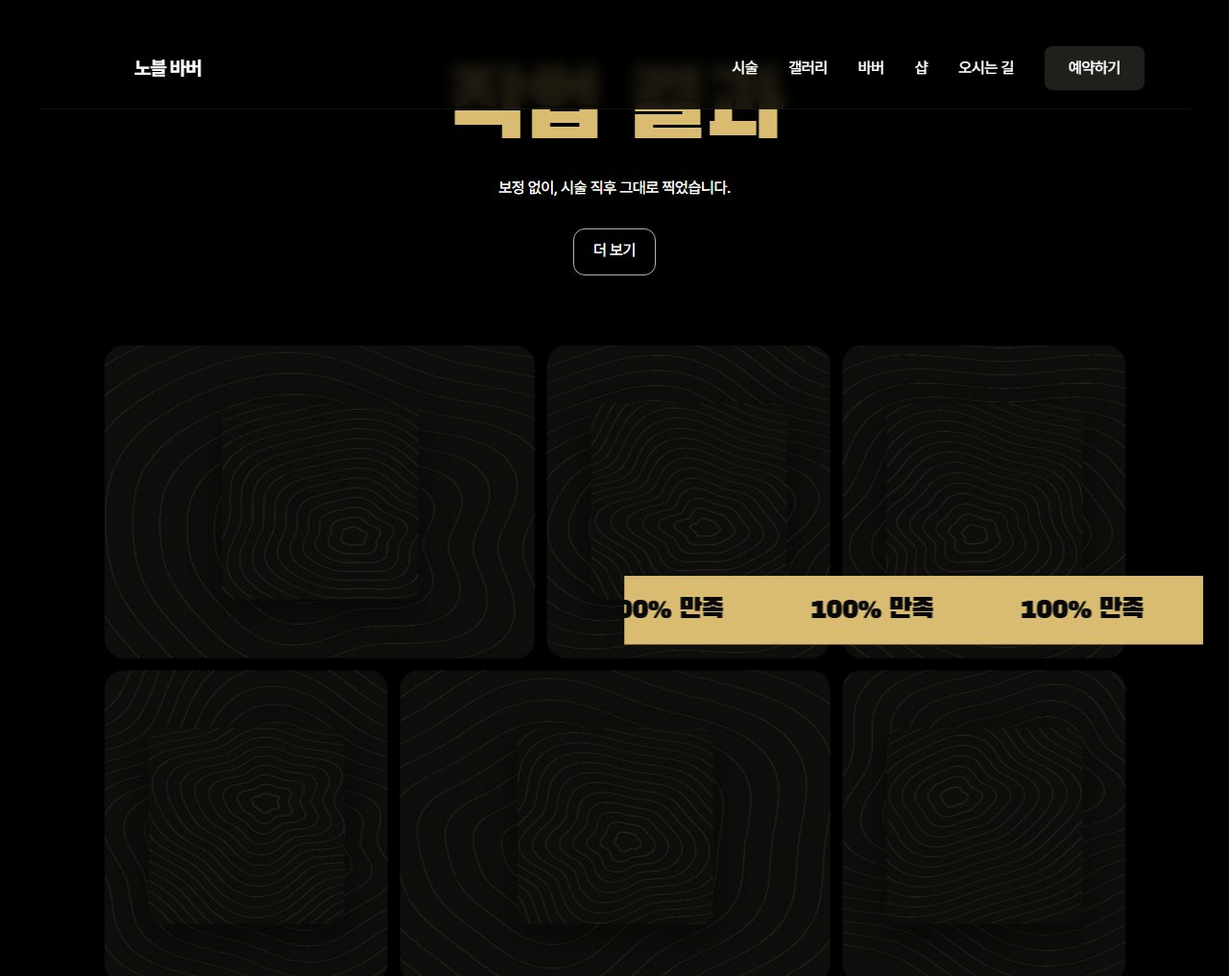
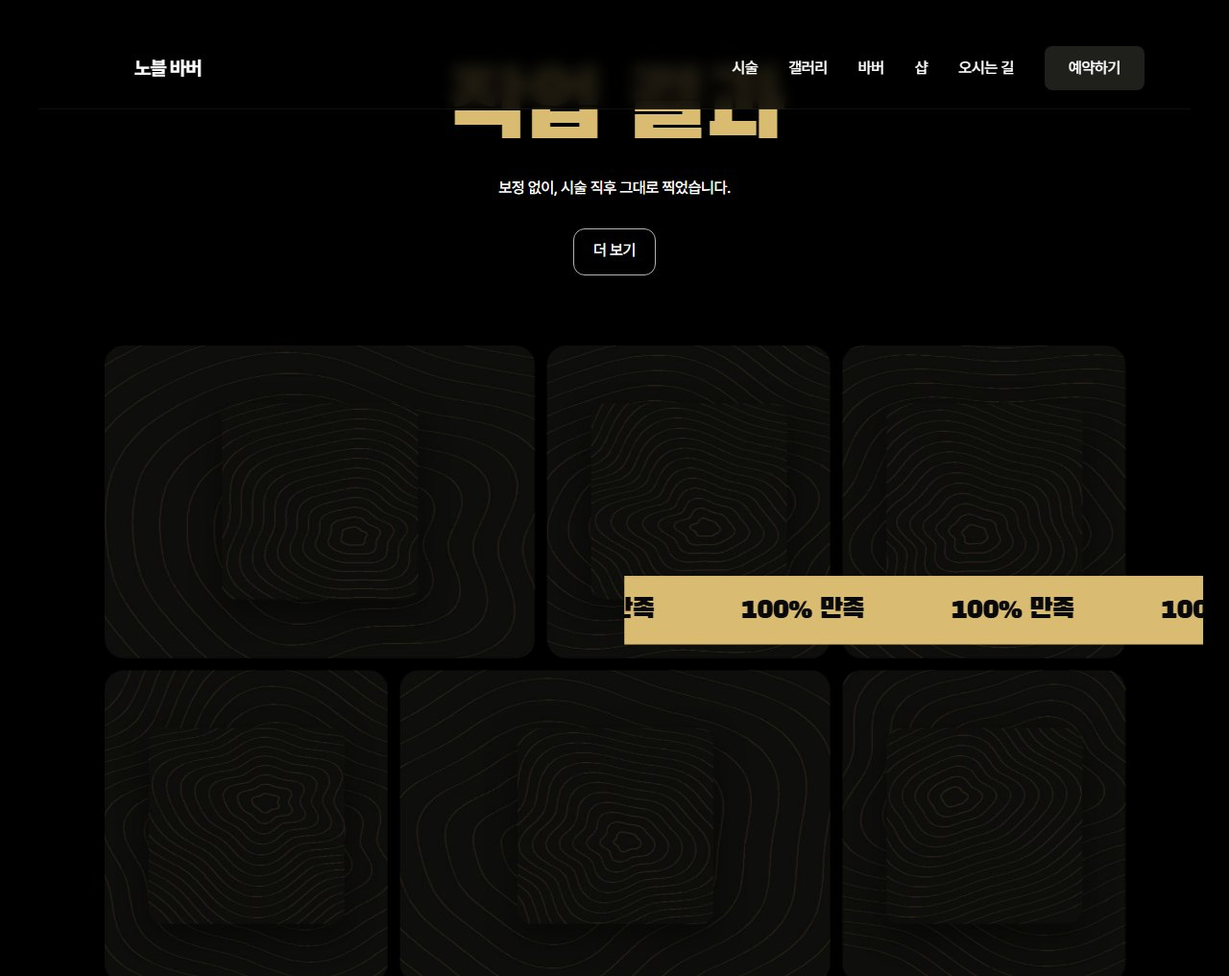
beauty-g 마퀴 트랙 폭 max-content + 실측 속도(77/22/108/50 px/s)로 duration 고정

Changed region(s): [[0.5, 0.6096, 1.0, 0.6401]]

diff --git a/public/templates/beauty-g-basic/index.html b/public/templates/beauty-g-basic/index.html
@@ -89,7 +89,7 @@ nav a:hover{color:var(--gold)}
 
 /* 티커 실측: 1200×200 · 아이콘 108 (x160) · 텍스트 200/180 #1F1F1C (x294) · 피치 = 아이콘108+26+텍스트+30 */
 .tk{overflow:hidden;height:200px;display:flex;align-items:center;margin-top:65px}
-.tk .track{display:flex;align-items:center;white-space:nowrap;animation:tk 40s linear infinite;will-change:transform}  /* 실측 77px/s */
+.tk .track{display:flex;align-items:center;white-space:nowrap;width:max-content;animation:tk 40s linear infinite;will-change:transform}  /* 실측 77px/s · 트랙은 max-content 여야 -50% 가 콘텐츠 절반 */
 .tk .item{display:flex;align-items:center;gap:26px;padding:0 30px 0 40px;font-size:200px;line-height:180px;color:var(--ghost)}
 .tk .item svg{width:108px;height:108px;flex:none;stroke:var(--ghost);fill:none;stroke-width:1.6;stroke-linecap:round;stroke-linejoin:round}
 @keyframes tk{to{transform:translateX(-50%)}}
@@ -120,7 +120,7 @@ section{padding-top:70px}
 .svc .c3 .ph{left:19px;top:181px;transform:rotate(-4deg)}
 /* 카드2: 128×134 r8 썸네일 4장 × 3줄, 줄마다 -8° 기울고 흐른다 */
 .svc .rows{position:absolute;left:0;top:150px;width:140%;margin-left:-20%}
-.svc .row{display:flex;gap:8px;transform:rotate(-8deg);margin-bottom:-6px;animation:tk 22s linear infinite}  /* 실측 50px/s */
+.svc .row{display:flex;gap:8px;width:max-content;transform:rotate(-8deg);margin-bottom:-6px;animation:tk 22s linear infinite}  /* 실측 50px/s */
 .svc .row:nth-child(2){animation-direction:reverse}
 .svc .row img{width:128px;height:134px;border-radius:8px;object-fit:cover;flex:none}
 
@@ -133,7 +133,7 @@ section{padding-top:70px}
 .gal figure:hover>img{transform:scale(1.06)}
 .gal .ins{position:absolute;left:50%;top:59px;width:200px;height:200px;margin-left:-100px;border-radius:14px;object-fit:cover;box-shadow:0 12px 30px rgba(0,0,0,.45)}
 .band{position:absolute;right:-80px;top:235px;width:590px;height:70px;background:var(--gold);color:#09090B;overflow:hidden;display:flex;align-items:center;z-index:2}
-.band .track{display:flex;white-space:nowrap;animation:tk 80s linear infinite}  /* 실측 22px/s */
+.band .track{display:flex;white-space:nowrap;width:max-content;animation:tk 80s linear infinite}  /* 실측 22px/s */
 .band span{font-size:28px;line-height:34px;letter-spacing:-.02em;padding:0 44px}
 
 /* 바버 실측: 420×540 흑백 컷아웃 · 피치 496(gap 76) · 첫 장 x-24 · 흰 카드 300 r16 (초상 x+104) */
@@ -335,7 +335,7 @@ footer{margin-top:120px}
 </div></section>
 
 <!-- 티커: 고스트 텍스트 마퀴 -->
-<div class="tk rv"><div class="wrap"><div class="track" aria-hidden="true">
+<div class="tk rv"><div class="wrap"><div class="track" style="animation-duration:17.8s" aria-hidden="true">
   <div class="item disp"><svg viewBox="0 0 24 24"><circle cx="6" cy="6" r="3"/><circle cx="6" cy="18" r="3"/><path d="M20 4 8.5 15.5M20 20 8.5 8.5"/></svg>바버샵</div><div class="item disp"><svg viewBox="0 0 24 24"><circle cx="6" cy="6" r="3"/><circle cx="6" cy="18" r="3"/><path d="M20 4 8.5 15.5M20 20 8.5 8.5"/></svg>바버샵</div><div class="item disp"><svg viewBox="0 0 24 24"><circle cx="6" cy="6" r="3"/><circle cx="6" cy="18" r="3"/><path d="M20 4 8.5 15.5M20 20 8.5 8.5"/></svg>바버샵</div><div class="item disp"><svg viewBox="0 0 24 24"><circle cx="6" cy="6" r="3"/><circle cx="6" cy="18" r="3"/><path d="M20 4 8.5 15.5M20 20 8.5 8.5"/></svg>바버샵</div>
 </div></div></div>
 
@@ -347,16 +347,16 @@ footer{margin-top:120px}
       <img class="ph" src="../beauty-g/assets/service-1.jpg" alt="" width="592" height="484"><img class="ph2" src="../beauty-g/assets/service-1b.jpg" alt="" width="574" height="416"></div>
     <div class="c c2 rv x"><h3 class="disp">면도 & 수염<span>02</span></h3><p class="d">따뜻한 타월과 스트레이트 면도기로 정리하는 클래식 셰이브.</p>
       <div class="rows" aria-hidden="true">
-        <div class="row"><img src="../beauty-g/assets/service-2-1.jpg" alt=""><img src="../beauty-g/assets/service-2-2.jpg" alt=""><img src="../beauty-g/assets/service-2-3.jpg" alt=""><img src="../beauty-g/assets/service-2-4.jpg" alt=""><img src="../beauty-g/assets/service-2-1.jpg" alt=""><img src="../beauty-g/assets/service-2-2.jpg" alt=""><img src="../beauty-g/assets/service-2-3.jpg" alt=""><img src="../beauty-g/assets/service-2-4.jpg" alt=""></div>
-        <div class="row"><img src="../beauty-g/assets/service-2-3.jpg" alt=""><img src="../beauty-g/assets/service-2-4.jpg" alt=""><img src="../beauty-g/assets/service-2-1.jpg" alt=""><img src="../beauty-g/assets/service-2-2.jpg" alt=""><img src="../beauty-g/assets/service-2-3.jpg" alt=""><img src="../beauty-g/assets/service-2-4.jpg" alt=""><img src="../beauty-g/assets/service-2-1.jpg" alt=""><img src="../beauty-g/assets/service-2-2.jpg" alt=""></div>
-        <div class="row"><img src="../beauty-g/assets/service-2-2.jpg" alt=""><img src="../beauty-g/assets/service-2-3.jpg" alt=""><img src="../beauty-g/assets/service-2-4.jpg" alt=""><img src="../beauty-g/assets/service-2-1.jpg" alt=""><img src="../beauty-g/assets/service-2-2.jpg" alt=""><img src="../beauty-g/assets/service-2-3.jpg" alt=""><img src="../beauty-g/assets/service-2-4.jpg" alt=""><img src="../beauty-g/assets/service-2-1.jpg" alt=""></div>
+        <div class="row" style="animation-duration:10.8s"><img src="../beauty-g/assets/service-2-1.jpg" alt=""><img src="../beauty-g/assets/service-2-2.jpg" alt=""><img src="../beauty-g/assets/service-2-3.jpg" alt=""><img src="../beauty-g/assets/service-2-4.jpg" alt=""><img src="../beauty-g/assets/service-2-1.jpg" alt=""><img src="../beauty-g/assets/service-2-2.jpg" alt=""><img src="../beauty-g/assets/service-2-3.jpg" alt=""><img src="../beauty-g/assets/service-2-4.jpg" alt=""></div>
+        <div class="row" style="animation-duration:10.8s"><img src="../beauty-g/assets/service-2-3.jpg" alt=""><img src="../beauty-g/assets/service-2-4.jpg" alt=""><img src="../beauty-g/assets/service-2-1.jpg" alt=""><img src="../beauty-g/assets/service-2-2.jpg" alt=""><img src="../beauty-g/assets/service-2-3.jpg" alt=""><img src="../beauty-g/assets/service-2-4.jpg" alt=""><img src="../beauty-g/assets/service-2-1.jpg" alt=""><img src="../beauty-g/assets/service-2-2.jpg" alt=""></div>
+        <div class="row" style="animation-duration:10.8s"><img src="../beauty-g/assets/service-2-2.jpg" alt=""><img src="../beauty-g/assets/service-2-3.jpg" alt=""><img src="../beauty-g/assets/service-2-4.jpg" alt=""><img src="../beauty-g/assets/service-2-1.jpg" alt=""><img src="../beauty-g/assets/service-2-2.jpg" alt=""><img src="../beauty-g/assets/service-2-3.jpg" alt=""><img src="../beauty-g/assets/service-2-4.jpg" alt=""><img src="../beauty-g/assets/service-2-1.jpg" alt=""></div>
       </div></div>
     <div class="c c3 rv x"><h3 class="disp">라인업 & 페이드<span>03</span></h3><p class="d">선명한 라인과 부드러운 페이드로 완성하는 마무리.</p>
       <img class="ph" src="../beauty-g/assets/service-3.jpg" alt="" width="592" height="484"></div>
   </div>
 </div></section>
 
-<div class="tk rv"><div class="wrap"><div class="track" aria-hidden="true">
+<div class="tk rv"><div class="wrap"><div class="track" style="animation-duration:17.8s" aria-hidden="true">
   <div class="item disp"><svg viewBox="0 0 24 24"><path d="M3 8a2 2 0 0 1 2-2h2l2-3h6l2 3h2a2 2 0 0 1 2 2v11a2 2 0 0 1-2 2H5a2 2 0 0 1-2-2z"/><circle cx="12" cy="13" r="4"/></svg>갤러리</div><div class="item disp"><svg viewBox="0 0 24 24"><path d="M3 8a2 2 0 0 1 2-2h2l2-3h6l2 3h2a2 2 0 0 1 2 2v11a2 2 0 0 1-2 2H5a2 2 0 0 1-2-2z"/><circle cx="12" cy="13" r="4"/></svg>갤러리</div><div class="item disp"><svg viewBox="0 0 24 24"><path d="M3 8a2 2 0 0 1 2-2h2l2-3h6l2 3h2a2 2 0 0 1 2 2v11a2 2 0 0 1-2 2H5a2 2 0 0 1-2-2z"/><circle cx="12" cy="13" r="4"/></svg>갤러리</div><div class="item disp"><svg viewBox="0 0 24 24"><path d="M3 8a2 2 0 0 1 2-2h2l2-3h6l2 3h2a2 2 0 0 1 2 2v11a2 2 0 0 1-2 2H5a2 2 0 0 1-2-2z"/><circle cx="12" cy="13" r="4"/></svg>갤러리</div>
 </div></div></div>
 
@@ -374,11 +374,11 @@ footer{margin-top:120px}
       <figure class="w"><img src="../beauty-g/assets/gallery-5.jpg" alt="" width="878" height="638"><img class="ins" src="../beauty-g/assets/gallery-5s.jpg" alt="" width="400" height="400"></figure>
       <figure class="n"><img src="../beauty-g/assets/gallery-6.jpg" alt="" width="578" height="638"><img class="ins" src="../beauty-g/assets/gallery-6s.jpg" alt="" width="400" height="400"></figure>
     </div>
-    <div class="band" aria-hidden="true"><div class="track"><span class="disp">100% 만족</span><span class="disp">100% 만족</span><span class="disp">100% 만족</span><span class="disp">100% 만족</span><span class="disp">100% 만족</span><span class="disp">100% 만족</span><span class="disp">100% 만족</span><span class="disp">100% 만족</span></div></div>
+    <div class="band" aria-hidden="true"><div class="track" style="animation-duration:38.9s"><span class="disp">100% 만족</span><span class="disp">100% 만족</span><span class="disp">100% 만족</span><span class="disp">100% 만족</span><span class="disp">100% 만족</span><span class="disp">100% 만족</span><span class="disp">100% 만족</span><span class="disp">100% 만족</span></div></div>
   </div>
 </div></section>
 
-<div class="tk rv"><div class="wrap"><div class="track" aria-hidden="true">
+<div class="tk rv"><div class="wrap"><div class="track" style="animation-duration:20.4s" aria-hidden="true">
   <div class="item disp"><svg viewBox="0 0 24 24"><circle cx="9" cy="7" r="4"/><path d="M3 21v-2a4 4 0 0 1 4-4h4M16 19l2 2 4-4"/></svg>바버</div><div class="item disp"><svg viewBox="0 0 24 24"><circle cx="9" cy="7" r="4"/><path d="M3 21v-2a4 4 0 0 1 4-4h4M16 19l2 2 4-4"/></svg>바버</div><div class="item disp"><svg viewBox="0 0 24 24"><circle cx="9" cy="7" r="4"/><path d="M3 21v-2a4 4 0 0 1 4-4h4M16 19l2 2 4-4"/></svg>바버</div><div class="item disp"><svg viewBox="0 0 24 24"><circle cx="9" cy="7" r="4"/><path d="M3 21v-2a4 4 0 0 1 4-4h4M16 19l2 2 4-4"/></svg>바버</div><div class="item disp"><svg viewBox="0 0 24 24"><circle cx="9" cy="7" r="4"/><path d="M3 21v-2a4 4 0 0 1 4-4h4M16 19l2 2 4-4"/></svg>바버</div><div class="item disp"><svg viewBox="0 0 24 24"><circle cx="9" cy="7" r="4"/><path d="M3 21v-2a4 4 0 0 1 4-4h4M16 19l2 2 4-4"/></svg>바버</div>
 </div></div></div>
 
@@ -392,7 +392,7 @@ footer{margin-top:120px}
   </div></div>
 </div></section>
 
-<div class="tk rv"><div class="wrap"><div class="track" aria-hidden="true">
+<div class="tk rv"><div class="wrap"><div class="track" style="animation-duration:20.6s" aria-hidden="true">
   <div class="item disp"><svg viewBox="0 0 24 24"><path d="M12 21s-7-4.5-9.5-9A5.5 5.5 0 0 1 12 6a5.5 5.5 0 0 1 9.5 6c-2.5 4.5-9.5 9-9.5 9z"/></svg>고객</div><div class="item disp"><svg viewBox="0 0 24 24"><path d="M12 21s-7-4.5-9.5-9A5.5 5.5 0 0 1 12 6a5.5 5.5 0 0 1 9.5 6c-2.5 4.5-9.5 9-9.5 9z"/></svg>고객</div><div class="item disp"><svg viewBox="0 0 24 24"><path d="M12 21s-7-4.5-9.5-9A5.5 5.5 0 0 1 12 6a5.5 5.5 0 0 1 9.5 6c-2.5 4.5-9.5 9-9.5 9z"/></svg>고객</div><div class="item disp"><svg viewBox="0 0 24 24"><path d="M12 21s-7-4.5-9.5-9A5.5 5.5 0 0 1 12 6a5.5 5.5 0 0 1 9.5 6c-2.5 4.5-9.5 9-9.5 9z"/></svg>고객</div><div class="item disp"><svg viewBox="0 0 24 24"><path d="M12 21s-7-4.5-9.5-9A5.5 5.5 0 0 1 12 6a5.5 5.5 0 0 1 9.5 6c-2.5 4.5-9.5 9-9.5 9z"/></svg>고객</div><div class="item disp"><svg viewBox="0 0 24 24"><path d="M12 21s-7-4.5-9.5-9A5.5 5.5 0 0 1 12 6a5.5 5.5 0 0 1 9.5 6c-2.5 4.5-9.5 9-9.5 9z"/></svg>고객</div>
 </div></div></div>
 
@@ -412,7 +412,7 @@ footer{margin-top:120px}
   </div>
 </div></section>
 
-<div class="tk rv"><div class="wrap"><div class="track" aria-hidden="true">
+<div class="tk rv"><div class="wrap"><div class="track" style="animation-duration:20.5s" aria-hidden="true">
   <div class="item disp"><svg viewBox="0 0 24 24"><path d="m12 3 2.8 5.7 6.2.9-4.5 4.4 1.1 6.2L12 17.3 6.4 20.2l1.1-6.2L3 9.6l6.2-.9z"/></svg>가격</div><div class="item disp"><svg viewBox="0 0 24 24"><path d="m12 3 2.8 5.7 6.2.9-4.5 4.4 1.1 6.2L12 17.3 6.4 20.2l1.1-6.2L3 9.6l6.2-.9z"/></svg>가격</div><div class="item disp"><svg viewBox="0 0 24 24"><path d="m12 3 2.8 5.7 6.2.9-4.5 4.4 1.1 6.2L12 17.3 6.4 20.2l1.1-6.2L3 9.6l6.2-.9z"/></svg>가격</div><div class="item disp"><svg viewBox="0 0 24 24"><path d="m12 3 2.8 5.7 6.2.9-4.5 4.4 1.1 6.2L12 17.3 6.4 20.2l1.1-6.2L3 9.6l6.2-.9z"/></svg>가격</div><div class="item disp"><svg viewBox="0 0 24 24"><path d="m12 3 2.8 5.7 6.2.9-4.5 4.4 1.1 6.2L12 17.3 6.4 20.2l1.1-6.2L3 9.6l6.2-.9z"/></svg>가격</div><div class="item disp"><svg viewBox="0 0 24 24"><path d="m12 3 2.8 5.7 6.2.9-4.5 4.4 1.1 6.2L12 17.3 6.4 20.2l1.1-6.2L3 9.6l6.2-.9z"/></svg>가격</div>
 </div></div></div>
 
@@ -443,7 +443,7 @@ footer{margin-top:120px}
   </div>
 </div></section>
 
-<div class="tk rv"><div class="wrap"><div class="track" aria-hidden="true">
+<div class="tk rv"><div class="wrap"><div class="track" style="animation-duration:26.3s" aria-hidden="true">
   <div class="item disp"><svg viewBox="0 0 24 24"><path d="M3 9 5 4h14l2 5M3 9v11h18V9M3 9a3 3 0 0 0 6 0 3 3 0 0 0 6 0 3 3 0 0 0 6 0M10 20v-6h4v6"/></svg>인스타그램</div><div class="item disp"><svg viewBox="0 0 24 24"><path d="M3 9 5 4h14l2 5M3 9v11h18V9M3 9a3 3 0 0 0 6 0 3 3 0 0 0 6 0 3 3 0 0 0 6 0M10 20v-6h4v6"/></svg>인스타그램</div><div class="item disp"><svg viewBox="0 0 24 24"><path d="M3 9 5 4h14l2 5M3 9v11h18V9M3 9a3 3 0 0 0 6 0 3 3 0 0 0 6 0 3 3 0 0 0 6 0M10 20v-6h4v6"/></svg>인스타그램</div><div class="item disp"><svg viewBox="0 0 24 24"><path d="M3 9 5 4h14l2 5M3 9v11h18V9M3 9a3 3 0 0 0 6 0 3 3 0 0 0 6 0 3 3 0 0 0 6 0M10 20v-6h4v6"/></svg>인스타그램</div>
 </div></div></div>
 
@@ -464,7 +464,7 @@ footer{margin-top:120px}
   </div></div>
 </div></section>
 
-<div class="tk rv"><div class="wrap"><div class="track" aria-hidden="true">
+<div class="tk rv"><div class="wrap"><div class="track" style="animation-duration:19.0s" aria-hidden="true">
   <div class="item disp"><svg viewBox="0 0 24 24"><path d="M2 3h3l2.4 12.2a2 2 0 0 0 2 1.6h8.8a2 2 0 0 0 2-1.6L22 7H6"/><circle cx="9" cy="21" r="1.2"/><circle cx="18" cy="21" r="1.2"/></svg>샵</div><div class="item disp"><svg viewBox="0 0 24 24"><path d="M2 3h3l2.4 12.2a2 2 0 0 0 2 1.6h8.8a2 2 0 0 0 2-1.6L22 7H6"/><circle cx="9" cy="21" r="1.2"/><circle cx="18" cy="21" r="1.2"/></svg>샵</div><div class="item disp"><svg viewBox="0 0 24 24"><path d="M2 3h3l2.4 12.2a2 2 0 0 0 2 1.6h8.8a2 2 0 0 0 2-1.6L22 7H6"/><circle cx="9" cy="21" r="1.2"/><circle cx="18" cy="21" r="1.2"/></svg>샵</div><div class="item disp"><svg viewBox="0 0 24 24"><path d="M2 3h3l2.4 12.2a2 2 0 0 0 2 1.6h8.8a2 2 0 0 0 2-1.6L22 7H6"/><circle cx="9" cy="21" r="1.2"/><circle cx="18" cy="21" r="1.2"/></svg>샵</div><div class="item disp"><svg viewBox="0 0 24 24"><path d="M2 3h3l2.4 12.2a2 2 0 0 0 2 1.6h8.8a2 2 0 0 0 2-1.6L22 7H6"/><circle cx="9" cy="21" r="1.2"/><circle cx="18" cy="21" r="1.2"/></svg>샵</div><div class="item disp"><svg viewBox="0 0 24 24"><path d="M2 3h3l2.4 12.2a2 2 0 0 0 2 1.6h8.8a2 2 0 0 0 2-1.6L22 7H6"/><circle cx="9" cy="21" r="1.2"/><circle cx="18" cy="21" r="1.2"/></svg>샵</div><div class="item disp"><svg viewBox="0 0 24 24"><path d="M2 3h3l2.4 12.2a2 2 0 0 0 2 1.6h8.8a2 2 0 0 0 2-1.6L22 7H6"/><circle cx="9" cy="21" r="1.2"/><circle cx="18" cy="21" r="1.2"/></svg>샵</div><div class="item disp"><svg viewBox="0 0 24 24"><path d="M2 3h3l2.4 12.2a2 2 0 0 0 2 1.6h8.8a2 2 0 0 0 2-1.6L22 7H6"/><circle cx="9" cy="21" r="1.2"/><circle cx="18" cy="21" r="1.2"/></svg>샵</div>
 </div></div></div>
 
@@ -477,7 +477,7 @@ footer{margin-top:120px}
   </div>
 </div></section>
 
-<div class="tk rv"><div class="wrap"><div class="track" aria-hidden="true">
+<div class="tk rv"><div class="wrap"><div class="track" style="animation-duration:20.4s" aria-hidden="true">
   <div class="item disp"><svg viewBox="0 0 24 24"><path d="M15 4h5v5M20 4l-6 6M5 3h3l2 5-2.5 1.5a11 11 0 0 0 6 6L15 13l5 2v3a2 2 0 0 1-2 2A16 16 0 0 1 3 5a2 2 0 0 1 2-2z"/></svg>문의</div><div class="item disp"><svg viewBox="0 0 24 24"><path d="M15 4h5v5M20 4l-6 6M5 3h3l2 5-2.5 1.5a11 11 0 0 0 6 6L15 13l5 2v3a2 2 0 0 1-2 2A16 16 0 0 1 3 5a2 2 0 0 1 2-2z"/></svg>문의</div><div class="item disp"><svg viewBox="0 0 24 24"><path d="M15 4h5v5M20 4l-6 6M5 3h3l2 5-2.5 1.5a11 11 0 0 0 6 6L15 13l5 2v3a2 2 0 0 1-2 2A16 16 0 0 1 3 5a2 2 0 0 1 2-2z"/></svg>문의</div><div class="item disp"><svg viewBox="0 0 24 24"><path d="M15 4h5v5M20 4l-6 6M5 3h3l2 5-2.5 1.5a11 11 0 0 0 6 6L15 13l5 2v3a2 2 0 0 1-2 2A16 16 0 0 1 3 5a2 2 0 0 1 2-2z"/></svg>문의</div><div class="item disp"><svg viewBox="0 0 24 24"><path d="M15 4h5v5M20 4l-6 6M5 3h3l2 5-2.5 1.5a11 11 0 0 0 6 6L15 13l5 2v3a2 2 0 0 1-2 2A16 16 0 0 1 3 5a2 2 0 0 1 2-2z"/></svg>문의</div><div class="item disp"><svg viewBox="0 0 24 24"><path d="M15 4h5v5M20 4l-6 6M5 3h3l2 5-2.5 1.5a11 11 0 0 0 6 6L15 13l5 2v3a2 2 0 0 1-2 2A16 16 0 0 1 3 5a2 2 0 0 1 2-2z"/></svg>문의</div>
 </div></div></div>
 

diff --git a/public/templates/beauty-g/index.html b/public/templates/beauty-g/index.html
@@ -89,7 +89,7 @@ nav a:hover{color:var(--gold)}
 
 /* 티커 실측: 1200×200 · 아이콘 108 (x160) · 텍스트 200/180 #1F1F1C (x294) · 피치 = 아이콘108+26+텍스트+30 */
 .tk{overflow:hidden;height:200px;display:flex;align-items:center;margin-top:65px}
-.tk .track{display:flex;align-items:center;white-space:nowrap;animation:tk 40s linear infinite;will-change:transform}  /* 실측 77px/s */
+.tk .track{display:flex;align-items:center;white-space:nowrap;width:max-content;animation:tk 40s linear infinite;will-change:transform}  /* 실측 77px/s · 트랙은 max-content 여야 -50% 가 콘텐츠 절반 */
 .tk .item{display:flex;align-items:center;gap:26px;padding:0 30px 0 40px;font-size:200px;line-height:180px;color:var(--ghost)}
 .tk .item svg{width:108px;height:108px;flex:none;stroke:var(--ghost);fill:none;stroke-width:1.6;stroke-linecap:round;stroke-linejoin:round}
 @keyframes tk{to{transform:translateX(-50%)}}
@@ -120,7 +120,7 @@ section{padding-top:70px}
 .svc .c3 .ph{left:19px;top:181px;transform:rotate(-4deg)}
 /* 카드2: 128×134 r8 썸네일 4장 × 3줄, 줄마다 -8° 기울고 흐른다 */
 .svc .rows{position:absolute;left:0;top:150px;width:140%;margin-left:-20%}
-.svc .row{display:flex;gap:8px;transform:rotate(-8deg);margin-bottom:-6px;animation:tk 22s linear infinite}  /* 실측 50px/s */
+.svc .row{display:flex;gap:8px;width:max-content;transform:rotate(-8deg);margin-bottom:-6px;animation:tk 22s linear infinite}  /* 실측 50px/s */
 .svc .row:nth-child(2){animation-direction:reverse}
 .svc .row img{width:128px;height:134px;border-radius:8px;object-fit:cover;flex:none}
 
@@ -133,7 +133,7 @@ section{padding-top:70px}
 .gal figure:hover>img{transform:scale(1.06)}
 .gal .ins{position:absolute;left:50%;top:59px;width:200px;height:200px;margin-left:-100px;border-radius:14px;object-fit:cover;box-shadow:0 12px 30px rgba(0,0,0,.45)}
 .band{position:absolute;right:-80px;top:235px;width:590px;height:70px;background:var(--gold);color:#09090B;overflow:hidden;display:flex;align-items:center;z-index:2}
-.band .track{display:flex;white-space:nowrap;animation:tk 80s linear infinite}  /* 실측 22px/s */
+.band .track{display:flex;white-space:nowrap;width:max-content;animation:tk 80s linear infinite}  /* 실측 22px/s */
 .band span{font-size:28px;line-height:34px;letter-spacing:-.02em;padding:0 44px}
 
 /* 바버 실측: 420×540 흑백 컷아웃 · 피치 496(gap 76) · 첫 장 x-24 · 흰 카드 300 r16 (초상 x+104) */
@@ -331,7 +331,7 @@ footer{margin-top:120px}
 </div></section>
 
 <!-- 티커: 고스트 텍스트 마퀴 -->
-<div class="tk rv"><div class="wrap"><div class="track" aria-hidden="true">
+<div class="tk rv"><div class="wrap"><div class="track" style="animation-duration:17.8s" aria-hidden="true">
   <div class="item disp"><svg viewBox="0 0 24 24"><circle cx="6" cy="6" r="3"/><circle cx="6" cy="18" r="3"/><path d="M20 4 8.5 15.5M20 20 8.5 8.5"/></svg>바버샵</div><div class="item disp"><svg viewBox="0 0 24 24"><circle cx="6" cy="6" r="3"/><circle cx="6" cy="18" r="3"/><path d="M20 4 8.5 15.5M20 20 8.5 8.5"/></svg>바버샵</div><div class="item disp"><svg viewBox="0 0 24 24"><circle cx="6" cy="6" r="3"/><circle cx="6" cy="18" r="3"/><path d="M20 4 8.5 15.5M20 20 8.5 8.5"/></svg>바버샵</div><div class="item disp"><svg viewBox="0 0 24 24"><circle cx="6" cy="6" r="3"/><circle cx="6" cy="18" r="3"/><path d="M20 4 8.5 15.5M20 20 8.5 8.5"/></svg>바버샵</div>
 </div></div></div>
 
@@ -343,16 +343,16 @@ footer{margin-top:120px}
       <img class="ph" src="./assets/service-1.jpg" alt="" width="592" height="484"><img class="ph2" src="./assets/service-1b.jpg" alt="" width="574" height="416"></div>
     <div class="c c2 rv x"><h3 class="disp">면도 & 수염<span>02</span></h3><p class="d">따뜻한 타월과 스트레이트 면도기로 정리하는 클래식 셰이브.</p>
       <div class="rows" aria-hidden="true">
-        <div class="row"><img src="./assets/service-2-1.jpg" alt=""><img src="./assets/service-2-2.jpg" alt=""><img src="./assets/service-2-3.jpg" alt=""><img src="./assets/service-2-4.jpg" alt=""><img src="./assets/service-2-1.jpg" alt=""><img src="./assets/service-2-2.jpg" alt=""><img src="./assets/service-2-3.jpg" alt=""><img src="./assets/service-2-4.jpg" alt=""></div>
-        <div class="row"><img src="./assets/service-2-3.jpg" alt=""><img src="./assets/service-2-4.jpg" alt=""><img src="./assets/service-2-1.jpg" alt=""><img src="./assets/service-2-2.jpg" alt=""><img src="./assets/service-2-3.jpg" alt=""><img src="./assets/service-2-4.jpg" alt=""><img src="./assets/service-2-1.jpg" alt=""><img src="./assets/service-2-2.jpg" alt=""></div>
-        <div class="row"><img src="./assets/service-2-2.jpg" alt=""><img src="./assets/service-2-3.jpg" alt=""><img src="./assets/service-2-4.jpg" alt=""><img src="./assets/service-2-1.jpg" alt=""><img src="./assets/service-2-2.jpg" alt=""><img src="./assets/service-2-3.jpg" alt=""><img src="./assets/service-2-4.jpg" alt=""><img src="./assets/service-2-1.jpg" alt=""></div>
+        <div class="row" style="animation-duration:10.8s"><img src="./assets/service-2-1.jpg" alt=""><img src="./assets/service-2-2.jpg" alt=""><img src="./assets/service-2-3.jpg" alt=""><img src="./assets/service-2-4.jpg" alt=""><img src="./assets/service-2-1.jpg" alt=""><img src="./assets/service-2-2.jpg" alt=""><img src="./assets/service-2-3.jpg" alt=""><img src="./assets/service-2-4.jpg" alt=""></div>
+        <div class="row" style="animation-duration:10.8s"><img src="./assets/service-2-3.jpg" alt=""><img src="./assets/service-2-4.jpg" alt=""><img src="./assets/service-2-1.jpg" alt=""><img src="./assets/service-2-2.jpg" alt=""><img src="./assets/service-2-3.jpg" alt=""><img src="./assets/service-2-4.jpg" alt=""><img src="./assets/service-2-1.jpg" alt=""><img src="./assets/service-2-2.jpg" alt=""></div>
+        <div class="row" style="animation-duration:10.8s"><img src="./assets/service-2-2.jpg" alt=""><img src="./assets/service-2-3.jpg" alt=""><img src="./assets/service-2-4.jpg" alt=""><img src="./assets/service-2-1.jpg" alt=""><img src="./assets/service-2-2.jpg" alt=""><img src="./assets/service-2-3.jpg" alt=""><img src="./assets/service-2-4.jpg" alt=""><img src="./assets/service-2-1.jpg" alt=""></div>
       </div></div>
     <div class="c c3 rv x"><h3 class="disp">라인업 & 페이드<span>03</span></h3><p class="d">선명한 라인과 부드러운 페이드로 완성하는 마무리.</p>
       <img class="ph" src="./assets/service-3.jpg" alt="" width="592" height="484"></div>
   </div>
 </div></section>
 
-<div class="tk rv"><div class="wrap"><div class="track" aria-hidden="true">
+<div class="tk rv"><div class="wrap"><div class="track" style="animation-duration:17.8s" aria-hidden="true">
   <div class="item disp"><svg viewBox="0 0 24 24"><path d="M3 8a2 2 0 0 1 2-2h2l2-3h6l2 3h2a2 2 0 0 1 2 2v11a2 2 0 0 1-2 2H5a2 2 0 0 1-2-2z"/><circle cx="12" cy="13" r="4"/></svg>갤러리</div><div class="item disp"><svg viewBox="0 0 24 24"><path d="M3 8a2 2 0 0 1 2-2h2l2-3h6l2 3h2a2 2 0 0 1 2 2v11a2 2 0 0 1-2 2H5a2 2 0 0 1-2-2z"/><circle cx="12" cy="13" r="4"/></svg>갤러리</div><div class="item disp"><svg viewBox="0 0 24 24"><path d="M3 8a2 2 0 0 1 2-2h2l2-3h6l2 3h2a2 2 0 0 1 2 2v11a2 2 0 0 1-2 2H5a2 2 0 0 1-2-2z"/><circle cx="12" cy="13" r="4"/></svg>갤러리</div><div class="item disp"><svg viewBox="0 0 24 24"><path d="M3 8a2 2 0 0 1 2-2h2l2-3h6l2 3h2a2 2 0 0 1 2 2v11a2 2 0 0 1-2 2H5a2 2 0 0 1-2-2z"/><circle cx="12" cy="13" r="4"/></svg>갤러리</div>
 </div></div></div>
 
@@ -370,11 +370,11 @@ footer{margin-top:120px}
       <figure class="w"><img src="./assets/gallery-5.jpg" alt="" width="878" height="638"><img class="ins" src="./assets/gallery-5s.jpg" alt="" width="400" height="400"></figure>
       <figure class="n"><img src="./assets/gallery-6.jpg" alt="" width="578" height="638"><img class="ins" src="./assets/gallery-6s.jpg" alt="" width="400" height="400"></figure>
     </div>
-    <div class="band" aria-hidden="true"><div class="track"><span class="disp">100% 만족</span><span class="disp">100% 만족</span><span class="disp">100% 만족</span><span class="disp">100% 만족</span><span class="disp">100% 만족</span><span class="disp">100% 만족</span><span class="disp">100% 만족</span><span class="disp">100% 만족</span></div></div>
+    <div class="band" aria-hidden="true"><div class="track" style="animation-duration:38.9s"><span class="disp">100% 만족</span><span class="disp">100% 만족</span><span class="disp">100% 만족</span><span class="disp">100% 만족</span><span class="disp">100% 만족</span><span class="disp">100% 만족</span><span class="disp">100% 만족</span><span class="disp">100% 만족</span></div></div>
   </div>
 </div></section>
 
-<div class="tk rv"><div class="wrap"><div class="track" aria-hidden="true">
+<div class="tk rv"><div class="wrap"><div class="track" style="animation-duration:20.4s" aria-hidden="true">
   <div class="item disp"><svg viewBox="0 0 24 24"><circle cx="9" cy="7" r="4"/><path d="M3 21v-2a4 4 0 0 1 4-4h4M16 19l2 2 4-4"/></svg>바버</div><div class="item disp"><svg viewBox="0 0 24 24"><circle cx="9" cy="7" r="4"/><path d="M3 21v-2a4 4 0 0 1 4-4h4M16 19l2 2 4-4"/></svg>바버</div><div class="item disp"><svg viewBox="0 0 24 24"><circle cx="9" cy="7" r="4"/><path d="M3 21v-2a4 4 0 0 1 4-4h4M16 19l2 2 4-4"/></svg>바버</div><div class="item disp"><svg viewBox="0 0 24 24"><circle cx="9" cy="7" r="4"/><path d="M3 21v-2a4 4 0 0 1 4-4h4M16 19l2 2 4-4"/></svg>바버</div><div class="item disp"><svg viewBox="0 0 24 24"><circle cx="9" cy="7" r="4"/><path d="M3 21v-2a4 4 0 0 1 4-4h4M16 19l2 2 4-4"/></svg>바버</div><div class="item disp"><svg viewBox="0 0 24 24"><circle cx="9" cy="7" r="4"/><path d="M3 21v-2a4 4 0 0 1 4-4h4M16 19l2 2 4-4"/></svg>바버</div>
 </div></div></div>
 
@@ -388,7 +388,7 @@ footer{margin-top:120px}
   </div></div>
 </div></section>
 
-<div class="tk rv"><div class="wrap"><div class="track" aria-hidden="true">
+<div class="tk rv"><div class="wrap"><div class="track" style="animation-duration:20.6s" aria-hidden="true">
   <div class="item disp"><svg viewBox="0 0 24 24"><path d="M12 21s-7-4.5-9.5-9A5.5 5.5 0 0 1 12 6a5.5 5.5 0 0 1 9.5 6c-2.5 4.5-9.5 9-9.5 9z"/></svg>고객</div><div class="item disp"><svg viewBox="0 0 24 24"><path d="M12 21s-7-4.5-9.5-9A5.5 5.5 0 0 1 12 6a5.5 5.5 0 0 1 9.5 6c-2.5 4.5-9.5 9-9.5 9z"/></svg>고객</div><div class="item disp"><svg viewBox="0 0 24 24"><path d="M12 21s-7-4.5-9.5-9A5.5 5.5 0 0 1 12 6a5.5 5.5 0 0 1 9.5 6c-2.5 4.5-9.5 9-9.5 9z"/></svg>고객</div><div class="item disp"><svg viewBox="0 0 24 24"><path d="M12 21s-7-4.5-9.5-9A5.5 5.5 0 0 1 12 6a5.5 5.5 0 0 1 9.5 6c-2.5 4.5-9.5 9-9.5 9z"/></svg>고객</div><div class="item disp"><svg viewBox="0 0 24 24"><path d="M12 21s-7-4.5-9.5-9A5.5 5.5 0 0 1 12 6a5.5 5.5 0 0 1 9.5 6c-2.5 4.5-9.5 9-9.5 9z"/></svg>고객</div><div class="item disp"><svg viewBox="0 0 24 24"><path d="M12 21s-7-4.5-9.5-9A5.5 5.5 0 0 1 12 6a5.5 5.5 0 0 1 9.5 6c-2.5 4.5-9.5 9-9.5 9z"/></svg>고객</div>
 </div></div></div>
 
@@ -408,7 +408,7 @@ footer{margin-top:120px}
   </div>
 </div></section>
 
-<div class="tk rv"><div class="wrap"><div class="track" aria-hidden="true">
+<div class="tk rv"><div class="wrap"><div class="track" style="animation-duration:20.5s" aria-hidden="true">
   <div class="item disp"><svg viewBox="0 0 24 24"><path d="m12 3 2.8 5.7 6.2.9-4.5 4.4 1.1 6.2L12 17.3 6.4 20.2l1.1-6.2L3 9.6l6.2-.9z"/></svg>가격</div><div class="item disp"><svg viewBox="0 0 24 24"><path d="m12 3 2.8 5.7 6.2.9-4.5 4.4 1.1 6.2L12 17.3 6.4 20.2l1.1-6.2L3 9.6l6.2-.9z"/></svg>가격</div><div class="item disp"><svg viewBox="0 0 24 24"><path d="m12 3 2.8 5.7 6.2.9-4.5 4.4 1.1 6.2L12 17.3 6.4 20.2l1.1-6.2L3 9.6l6.2-.9z"/></svg>가격</div><div class="item disp"><svg viewBox="0 0 24 24"><path d="m12 3 2.8 5.7 6.2.9-4.5 4.4 1.1 6.2L12 17.3 6.4 20.2l1.1-6.2L3 9.6l6.2-.9z"/></svg>가격</div><div class="item disp"><svg viewBox="0 0 24 24"><path d="m12 3 2.8 5.7 6.2.9-4.5 4.4 1.1 6.2L12 17.3 6.4 20.2l1.1-6.2L3 9.6l6.2-.9z"/></svg>가격</div><div class="item disp"><svg viewBox="0 0 24 24"><path d="m12 3 2.8 5.7 6.2.9-4.5 4.4 1.1 6.2L12 17.3 6.4 20.2l1.1-6.2L3 9.6l6.2-.9z"/></svg>가격</div>
 </div></div></div>
 
@@ -439,7 +439,7 @@ footer{margin-top:120px}
   </div>
 </div></section>
 
-<div class="tk rv"><div class="wrap"><div class="track" aria-hidden="true">
+<div class="tk rv"><div class="wrap"><div class="track" style="animation-duration:26.3s" aria-hidden="true">
   <div class="item disp"><svg viewBox="0 0 24 24"><path d="M3 9 5 4h14l2 5M3 9v11h18V9M3 9a3 3 0 0 0 6 0 3 3 0 0 0 6 0 3 3 0 0 0 6 0M10 20v-6h4v6"/></svg>인스타그램</div><div class="item disp"><svg viewBox="0 0 24 24"><path d="M3 9 5 4h14l2 5M3 9v11h18V9M3 9a3 3 0 0 0 6 0 3 3 0 0 0 6 0 3 3 0 0 0 6 0M10 20v-6h4v6"/></svg>인스타그램</div><div class="item disp"><svg viewBox="0 0 24 24"><path d="M3 9 5 4h14l2 5M3 9v11h18V9M3 9a3 3 0 0 0 6 0 3 3 0 0 0 6 0 3 3 0 0 0 6 0M10 20v-6h4v6"/></svg>인스타그램</div><div class="item disp"><svg viewBox="0 0 24 24"><path d="M3 9 5 4h14l2 5M3 9v11h18V9M3 9a3 3 0 0 0 6 0 3 3 0 0 0 6 0 3 3 0 0 0 6 0M10 20v-6h4v6"/></svg>인스타그램</div>
 </div></div></div>
 
@@ -460,7 +460,7 @@ footer{margin-top:120px}
   </div></div>
 </div></section>
 
-<div class="tk rv"><div class="wrap"><div class="track" aria-hidden="true">
+<div class="tk rv"><div class="wrap"><div class="track" style="animation-duration:19.0s" aria-hidden="true">
   <div class="item disp"><svg viewBox="0 0 24 24"><path d="M2 3h3l2.4 12.2a2 2 0 0 0 2 1.6h8.8a2 2 0 0 0 2-1.6L22 7H6"/><circle cx="9" cy="21" r="1.2"/><circle cx="18" cy="21" r="1.2"/></svg>샵</div><div class="item disp"><svg viewBox="0 0 24 24"><path d="M2 3h3l2.4 12.2a2 2 0 0 0 2 1.6h8.8a2 2 0 0 0 2-1.6L22 7H6"/><circle cx="9" cy="21" r="1.2"/><circle cx="18" cy="21" r="1.2"/></svg>샵</div><div class="item disp"><svg viewBox="0 0 24 24"><path d="M2 3h3l2.4 12.2a2 2 0 0 0 2 1.6h8.8a2 2 0 0 0 2-1.6L22 7H6"/><circle cx="9" cy="21" r="1.2"/><circle cx="18" cy="21" r="1.2"/></svg>샵</div><div class="item disp"><svg viewBox="0 0 24 24"><path d="M2 3h3l2.4 12.2a2 2 0 0 0 2 1.6h8.8a2 2 0 0 0 2-1.6L22 7H6"/><circle cx="9" cy="21" r="1.2"/><circle cx="18" cy="21" r="1.2"/></svg>샵</div><div class="item disp"><svg viewBox="0 0 24 24"><path d="M2 3h3l2.4 12.2a2 2 0 0 0 2 1.6h8.8a2 2 0 0 0 2-1.6L22 7H6"/><circle cx="9" cy="21" r="1.2"/><circle cx="18" cy="21" r="1.2"/></svg>샵</div><div class="item disp"><svg viewBox="0 0 24 24"><path d="M2 3h3l2.4 12.2a2 2 0 0 0 2 1.6h8.8a2 2 0 0 0 2-1.6L22 7H6"/><circle cx="9" cy="21" r="1.2"/><circle cx="18" cy="21" r="1.2"/></svg>샵</div><div class="item disp"><svg viewBox="0 0 24 24"><path d="M2 3h3l2.4 12.2a2 2 0 0 0 2 1.6h8.8a2 2 0 0 0 2-1.6L22 7H6"/><circle cx="9" cy="21" r="1.2"/><circle cx="18" cy="21" r="1.2"/></svg>샵</div><div class="item disp"><svg viewBox="0 0 24 24"><path d="M2 3h3l2.4 12.2a2 2 0 0 0 2 1.6h8.8a2 2 0 0 0 2-1.6L22 7H6"/><circle cx="9" cy="21" r="1.2"/><circle cx="18" cy="21" r="1.2"/></svg>샵</div>
 </div></div></div>
 
@@ -473,7 +473,7 @@ footer{margin-top:120px}
   </div>
 </div></section>
 
-<div class="tk rv"><div class="wrap"><div class="track" aria-hidden="true">
+<div class="tk rv"><div class="wrap"><div class="track" style="animation-duration:20.4s" aria-hidden="true">
   <div class="item disp"><svg viewBox="0 0 24 24"><path d="M15 4h5v5M20 4l-6 6M5 3h3l2 5-2.5 1.5a11 11 0 0 0 6 6L15 13l5 2v3a2 2 0 0 1-2 2A16 16 0 0 1 3 5a2 2 0 0 1 2-2z"/></svg>문의</div><div class="item disp"><svg viewBox="0 0 24 24"><path d="M15 4h5v5M20 4l-6 6M5 3h3l2 5-2.5 1.5a11 11 0 0 0 6 6L15 13l5 2v3a2 2 0 0 1-2 2A16 16 0 0 1 3 5a2 2 0 0 1 2-2z"/></svg>문의</div><div class="item disp"><svg viewBox="0 0 24 24"><path d="M15 4h5v5M20 4l-6 6M5 3h3l2 5-2.5 1.5a11 11 0 0 0 6 6L15 13l5 2v3a2 2 0 0 1-2 2A16 16 0 0 1 3 5a2 2 0 0 1 2-2z"/></svg>문의</div><div class="item disp"><svg viewBox="0 0 24 24"><path d="M15 4h5v5M20 4l-6 6M5 3h3l2 5-2.5 1.5a11 11 0 0 0 6 6L15 13l5 2v3a2 2 0 0 1-2 2A16 16 0 0 1 3 5a2 2 0 0 1 2-2z"/></svg>문의</div><div class="item disp"><svg viewBox="0 0 24 24"><path d="M15 4h5v5M20 4l-6 6M5 3h3l2 5-2.5 1.5a11 11 0 0 0 6 6L15 13l5 2v3a2 2 0 0 1-2 2A16 16 0 0 1 3 5a2 2 0 0 1 2-2z"/></svg>문의</div><div class="item disp"><svg viewBox="0 0 24 24"><path d="M15 4h5v5M20 4l-6 6M5 3h3l2 5-2.5 1.5a11 11 0 0 0 6 6L15 13l5 2v3a2 2 0 0 1-2 2A16 16 0 0 1 3 5a2 2 0 0 1 2-2z"/></svg>문의</div>
 </div></div></div>
 
